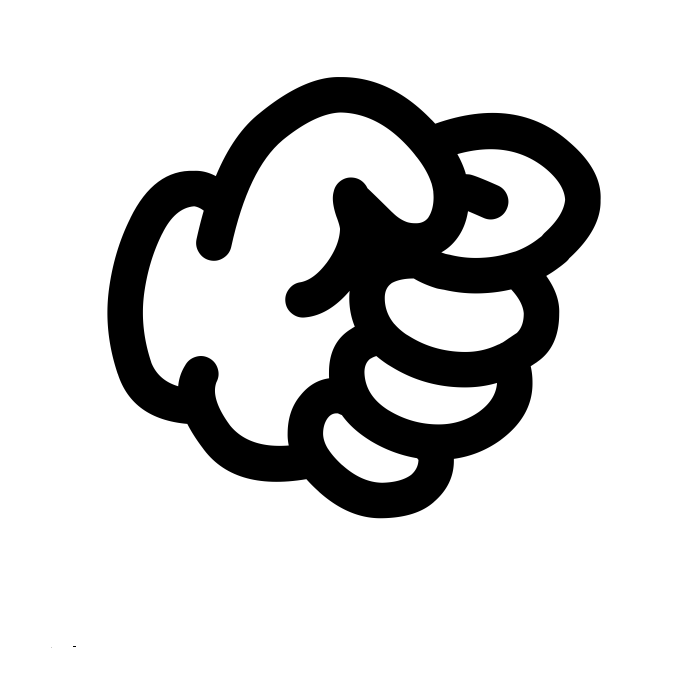
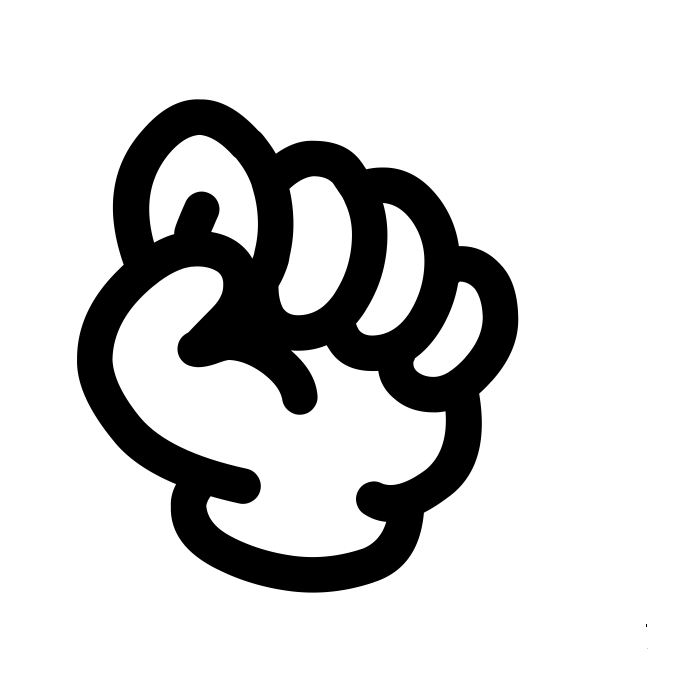
Updated html, css and js files
Updated each files to conform with the RPS game mechanic
*updates the player and computer record when either wins a round
*player and computer choice is displayed

Changed region(s): [[0.09, 0.09, 0.87, 0.87]]

diff --git a/external.js b/external.js
@@ -1,57 +1,66 @@
 const RPS = ['rock', 'paper', 'scissors'];
+const cScore = document.querySelector('#cScr');
+const pScore = document.querySelector('#pScr');
 const btnRock = document.querySelector('#btnRock');
-const btnPaper = document.querySelector('#btnPaper');
-const btnScissors = document.querySelector('#btnScissors')
-const divRoundResult = document.querySelector('#divResult');
-const divGameResult = document.querySelector('#divGameResult');
-const divPlayerRecord = document.querySelector('#divPlayerRecord');
-const divComputerRecord = document.querySelector('#divComputerRecord');
-const displayPlayerChoice = document.querySelector('#playerChoice');
-const displayComputerChoice = document.querySelector('#computerChoice');
+const btnScissors = document.querySelector('#btnScissors');
+const btnPaper = document.querySelector('#btnPaper')
+const computerChoice = document.querySelector('#computerChoice');
+const playerChoice = document.querySelector('#playerChoice');
+const gameResult = document.querySelector('#divGameResult');
 
-let computerChoice = '';
-let playerRecord = 0;
 let computerRecord = 0;
-let resultRound = '';
+let playerRecord = 0;
+cScore.textContent = computerRecord;
+pScore.textContent = playerRecord;
 
-game ();
+game();
 
-function game()
-{
+function game(){
 
-    resultRound = btnRock.addEventListener('click', playRound('rock', getComputerChoice()));
-    resultRound = btnPaper.addEventListener('click', playRound('paper', getComputerChoice()));
-    resultRound = btnScissors.addEventListener('click', playRound('scissors', getComputerChoice()));
-    divRoundResult.textContent = resultRound;
-    divPlayerRecord.textContent = playerRecord;
-    divComputerRecord.textContent = computerRecord;
+    btnRock.addEventListener('click', () => {
+        cChoice = getComputerChoice();
+        playRound('rock', cChoice);
+        updateRecords();
+        playerChoice.textContent = 'ROCK!'
+        displayComputerChoice(cChoice);
+    })
 
-    if (playerRecord === 5){
-        divGameResult = 'YOU WIN!';
-    }
-    else if (computerRecord === 5){
-        divGameResult === 'YOU LOSE! COMPUTER WINS!';
-    }
+    btnPaper.addEventListener('click', () => {
+        cChoice = getComputerChoice();
+        playRound('paper', cChoice);
+        updateRecords();
+        playerChoice.textContent = 'PAPER!'
+        displayComputerChoice(cChoice);
+    })
+
+    btnScissors.addEventListener('click', () => {
+        cChoice = getComputerChoice();
+        playRound('scissors', cChoice);
+        updateRecords();
+        playerChoice.textContent = 'SCISSORS!'
+        displayComputerChoice(cChoice);
+    })
 }
 
 
 function playRound(playerSelection, computerSelection)
 {
+
     if (playerSelection === 'rock')
     {
-        if (computerChoice === 'rock')
+        if (computerSelection === 'rock')
         {
-            return ('Draw');
+            return 0;
         }
         else if (computerSelection === 'paper')
         {
             computerRecord++;
-            return ('You Lose! Paper beats Rock');
+            return 0;
         }
         else 
         {
             playerRecord++;
-            return ('You Win! Rock beats Scissors');
+            return 0;
         }
     }
     else if (playerSelection === 'paper')
@@ -59,16 +68,16 @@ function playRound(playerSelection, computerSelection)
         if (computerSelection === 'rock')
         {
             playerRecord++;
-            return ('You Win! Paper beats Rock');
+            return 0;
         }
         else if (computerSelection === 'paper')
         {
-            return ('Draw');
+            return 0;
         }
         else 
         {
             computerRecord++;
-            return ('You Lose! Scissors beats Paper');
+            return 0;
         }
     }
     else
@@ -76,16 +85,16 @@ function playRound(playerSelection, computerSelection)
         if (computerSelection === 'rock')
         {
             computerRecord++;
-            return ('You Lose! Rock beats Scissors');
+            return 0;
         }
         else if (computerSelection === 'paper')
         {
             playerRecord++;
-            return ('You Win! Scissors beats Paper');
+            return 0;
         }
         else 
         {
-            return ('Draw');
+            return 0;
         }
     }
 }
@@ -93,5 +102,23 @@ function playRound(playerSelection, computerSelection)
 
 function getComputerChoice ()
 {
-    return Math.floor(Math.random() * 3);   
+    return RPS[Math.floor(Math.random() * 3)];   
+}
+
+function displayComputerChoice (choice){
+    if (choice == 'rock'){
+        computerChoice.textContent = 'ROCK!';
+    }
+    else if (choice == 'paper'){
+        computerChoice.textContent = 'PAPER!';
+    }
+    else if (choice == 'scissors')
+    {
+        computerChoice.textContent = 'SCISSORS!'
+    }
+}
+
+function updateRecords (){
+    cScore.textContent = computerRecord;
+    pScore.textContent = playerRecord;
 }

diff --git a/index.html b/index.html
@@ -4,7 +4,7 @@
     <meta charset="UTF-8">
     <meta name="viewport" content="width=device-width, initial-scale=1.0">
     <title>RPS</title>
-    <script src="./external.js"></script>
+    <script src="./external.js" defer></script>
     <link href="./style.css" rel="stylesheet">
 </head>
 <body>
@@ -14,29 +14,31 @@
     </div>
     <div class="playground">
         <div class="points">
-            <div class="computerScr">Computer: </div>
-            <div class="playerScr">Player: </div>
+            <div class="computerScr">Computer: <span id="cScr"></span></div>
+            <div class="playerScr">Player: <span id="pScr"></span></div>
         </div>
         <div class="main">
             <div class="mainComputer">
                 <img class="icon" src="./icon/computer-icon.png" alt="computer icon">
-                <div id="computerChoice"></div>
+                <div id="computerChoice">---</div>
             </div>
-            <div id="divGameResult"><b>YOU LOSE! COMPUTER WINS!</b></div>
+            <div id="divGameResult"><b>YOU WIN!</b></div>
             <div class="mainPlayer">
-                <div id="playerChoice"></div>
+                <div id="playerChoice">---</div>
                 <img class="icon" src="./icon/player-icon.png" alt="computer icon">
             </div>
         </div>
         <div class="roundDeclare">
-            <div id="divResult">You Win! Paper beats Rock!</div>
+
         </div>
     </div>
     <div class="bottom">
-
+        <button id="btnRock"><img id="rock" src="./icon/rock-icon.png" alt="rock icon"></button>
+        <button id="btnPaper"><img id="paper" src="icon/paper-icon.png" alt="paper icon"></button>
+        <button id="btnScissors"><img id="scissors" src="./icon/scissors-icon.png" alt="scissors icon"></button>
     </div>
     <div class="footer">
-
+        Copyright © Fercie 2023
     </div>
 </body>
 </html>

diff --git a/style.css b/style.css
@@ -4,6 +4,8 @@ body {
     justify-content: center;
     align-items: center;
     font-family: 'Courier New', Courier, monospace;
+    height: 100vh;
+    background-color: peachpuff;
 }
 
 .header {
@@ -15,7 +17,7 @@ body {
 }
 
 .title {
-    font-size: 50px;
+    font-size: 40px;
 }
 
 .sub-title {
@@ -33,13 +35,14 @@ body {
     flex-direction: column;
     flex: 1;
     justify-content: center;
-    align-items: center;
+    align-items: end;
     font-weight: bold;
 }
 
 .computerScr,
 .playerScr {
-    font-size: 30px;
+    display: flex;
+    font-size: 25px;
     padding: 20px;
 }
 
@@ -65,14 +68,20 @@ body {
 
 #computerChoice,
 #playerChoice {
-    border: 2px solid firebrick;
-    width: 160px;
-    height: 160px;
+    display: flex;
+    justify-content: center;
+    align-items: center;
+    width: 120px;
+    height: 120px;
+    font-size: 60px;
 }
 
-.icon {
-    width: 60px;
-    height: 60px;
+.icon,
+button,
+img {
+    width: 80px;
+    height: 80px;
+    border-radius: 10px;
 }
 
 .mainPlayer .icon {
@@ -85,10 +94,22 @@ body {
     flex: 1;
 }
 
-#divResult {
+.bottom {
+    flex: 1;
+}
+
+.footer {
+    display: flex;
+    height: 50px;
+    width: 100%;
+    align-items: center;
+    justify-content: center;
+    font-size: 20px;
+}
+/* #divResult {
     display: flex;
     align-items: center;
     height: 50%;
     font-size: 25px;
     font-weight: bold;
-}
+} */
